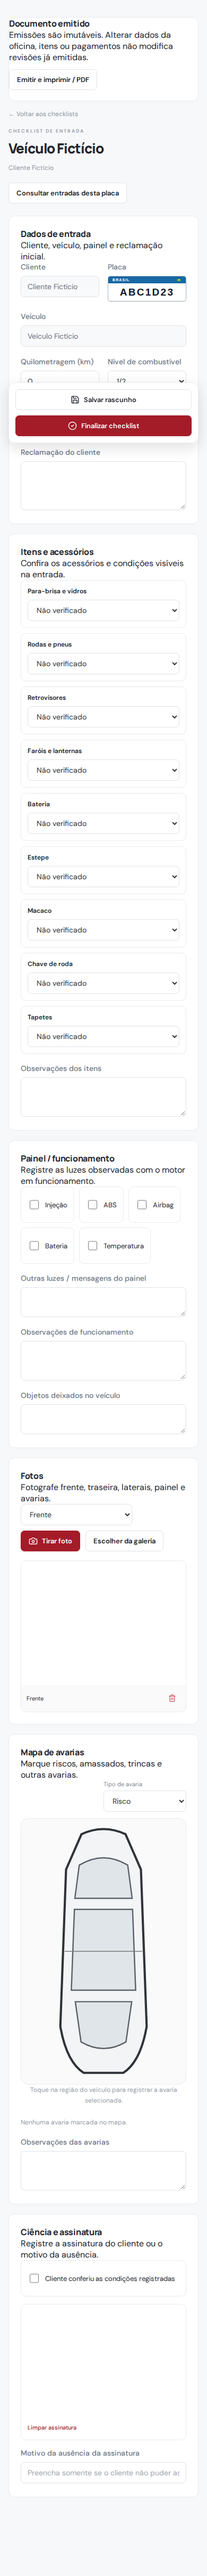
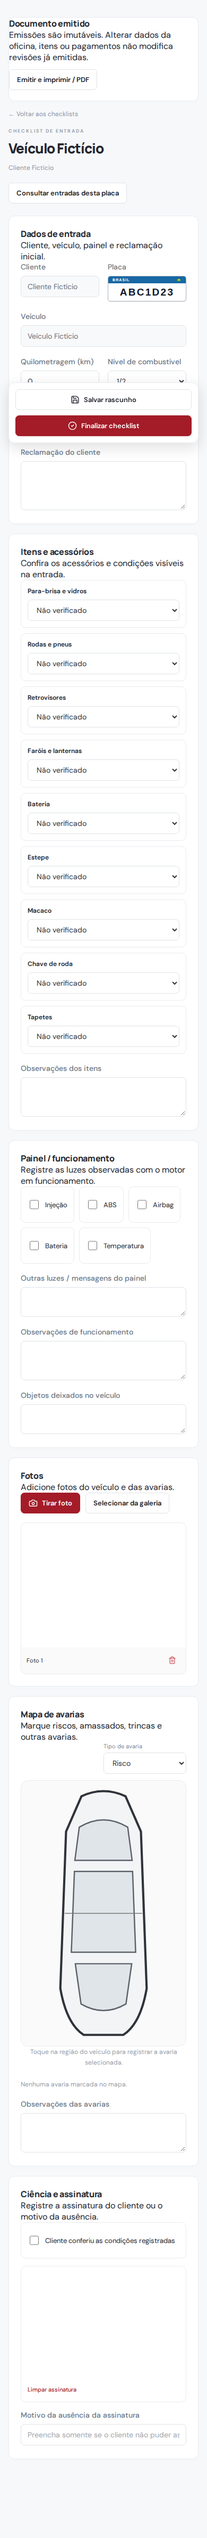
docs: atualizar captura do fluxo nativo de fotos

diff --git a/docs/mapeamento-visual/CHECKLIST.md b/docs/mapeamento-visual/CHECKLIST.md
@@ -81,8 +81,7 @@ Estados: capturada, pendente, bloqueada e não aplicável.
 | cliente-pesquisa-filtro | Clientes | Pesquisa e filtro de clientes — Registrar pesquisa, filtro e ausência de resultados. | — | pendente | — | não registrado | A interação ainda não possui arquivo PNG correspondente; executar em navegador e dados de teste isolados. |
 | veiculo-novo | Veículos | Cadastro e seleção de veículo — Preencher veículo fictício, selecionar cliente e validar estados do seletor. | — | pendente | — | não registrado | A interação ainda não possui arquivo PNG correspondente; executar em navegador e dados de teste isolados. |
 | checklist-preenchido | Checklist | Checklist preenchido e evidências — Registrar itens, imagens de teste e validação antes de concluir. | — | pendente | — | não registrado | A interação ainda não possui arquivo PNG correspondente; executar em navegador e dados de teste isolados. |
-| checklist-fotos-mobile | Checklist | Captura de fotos no checklist (mobile) — Câmera e galeria disponíveis em checklist de teste com foto fictícia. | [`capturas/05-checklist/checklist-photo-mobile.png`](./capturas/05-checklist/checklist-photo-mobile.png) | capturada | 2026-11-16 | ab9a2560ce48ddb2fcf1d13b72592eef9a394454 | Captura da interface real com API e dados fictícios no CI PostgreSQL 17 #916; o navegador de teste não representa a câmera do aparelho. |
-| checklist-camera-mobile | Checklist | Câmera no checklist (mobile) — Câmera integrada aberta no checklist de teste, com prévia e botão para capturar foto. | [`capturas/05-checklist/checklist-camera-mobile.png`](./capturas/05-checklist/checklist-camera-mobile.png) | capturada | 2026-11-16 | 61398885f09962faa22340e6e9efc12e313c82f9 | Captura da câmera fictícia no navegador mobile do CI PostgreSQL 17 #921; requer validação final no celular real. |
+| checklist-fotos-mobile | Checklist | Adicionar fotos no checklist (mobile) — Câmera nativa e seleção múltipla da galeria, sem escolha da posição da foto. | [`capturas/05-checklist/checklist-photo-mobile.png`](./capturas/05-checklist/checklist-photo-mobile.png) | capturada | 2026-11-18 | 5d634cce5b3b91af135fa9dcfdef444f658442d2 | Captura da interface real com API e dados fictícios no CI PostgreSQL 17 #973; a câmera do aparelho exige validação manual. |
 | checklist-finalizado | Checklist | Checklist finalizado — Capturar estado final usando somente registros efêmeros. | — | pendente | — | não registrado | A interação ainda não possui arquivo PNG correspondente; executar em navegador e dados de teste isolados. |
 | orcamento-servicos-produtos | Orçamentos | Orçamento com produtos e serviços — Adicionar itens fictícios e mostrar totais sem persistir fora da base de teste. | — | pendente | — | não registrado | A interação ainda não possui arquivo PNG correspondente; executar em navegador e dados de teste isolados. |
 | orcamento-edicao | Orçamentos | Edição de orçamento — Criar e editar rascunho de orçamento dentro da base descartável. | — | pendente | — | não registrado | A interação ainda não possui arquivo PNG correspondente; executar em navegador e dados de teste isolados. |

diff --git a/docs/mapeamento-visual/INDEX.md b/docs/mapeamento-visual/INDEX.md
@@ -262,21 +262,13 @@ Estado inicial do formulário; não foi criado nenhum registro.
 
 Estado: capturada · desktop · captura 2026-11-08 · commit de origem: dca9c029e9b6ad77cb847ed9c46d42c52ef4a23e · [arquivo completo](./capturas/05-checklist/novo-checklist-desktop.png)
 
-### Captura de fotos no checklist (mobile)
+### Adicionar fotos no checklist (mobile)
 
-Câmera e galeria disponíveis em checklist de teste com foto fictícia.
+Câmera nativa e seleção múltipla da galeria, sem escolha da posição da foto.
 
-[![Captura de fotos no checklist (mobile)](./capturas/05-checklist/checklist-photo-mobile.png)](./capturas/05-checklist/checklist-photo-mobile.png)
+[![Adicionar fotos no checklist (mobile)](./capturas/05-checklist/checklist-photo-mobile.png)](./capturas/05-checklist/checklist-photo-mobile.png)
 
-Estado: capturada · mobile · captura 2026-11-16 · commit de origem: ab9a2560ce48ddb2fcf1d13b72592eef9a394454 · [arquivo completo](./capturas/05-checklist/checklist-photo-mobile.png)
-
-### Câmera no checklist (mobile)
-
-Câmera integrada aberta no checklist de teste, com prévia e botão para capturar foto.
-
-[![Câmera no checklist (mobile)](./capturas/05-checklist/checklist-camera-mobile.png)](./capturas/05-checklist/checklist-camera-mobile.png)
-
-Estado: capturada · mobile · captura 2026-11-16 · commit de origem: 61398885f09962faa22340e6e9efc12e313c82f9 · [arquivo completo](./capturas/05-checklist/checklist-camera-mobile.png)
+Estado: capturada · mobile · captura 2026-11-18 · commit de origem: 5d634cce5b3b91af135fa9dcfdef444f658442d2 · [arquivo completo](./capturas/05-checklist/checklist-photo-mobile.png)
 
 ### CAD-005 — Veículo no checklist (desktop)
 

diff --git a/docs/mapeamento-visual/README.md b/docs/mapeamento-visual/README.md
@@ -27,4 +27,4 @@ Capturas que criem, editem ou finalizem registros só podem usar base PostgreSQL
 
 ## Coleta atual
 
-O acervo inclui 127 PNGs de telas reais. Consulte a data e o commit de cada entrada: as capturas originais de 22/10/2026 não registraram o commit e continuam sinalizadas. Capturas ADM-002.1 usam Chromium com respostas de API fictícias e não comprovam o backend; a integração PostgreSQL é testada separadamente no CI. Nenhuma credencial, token ou dado real deve aparecer nas imagens.
+O acervo inclui 126 PNGs de telas reais. Consulte a data e o commit de cada entrada: as capturas originais de 22/10/2026 não registraram o commit e continuam sinalizadas. Capturas ADM-002.1 usam Chromium com respostas de API fictícias e não comprovam o backend; a integração PostgreSQL é testada separadamente no CI. Nenhuma credencial, token ou dado real deve aparecer nas imagens.
